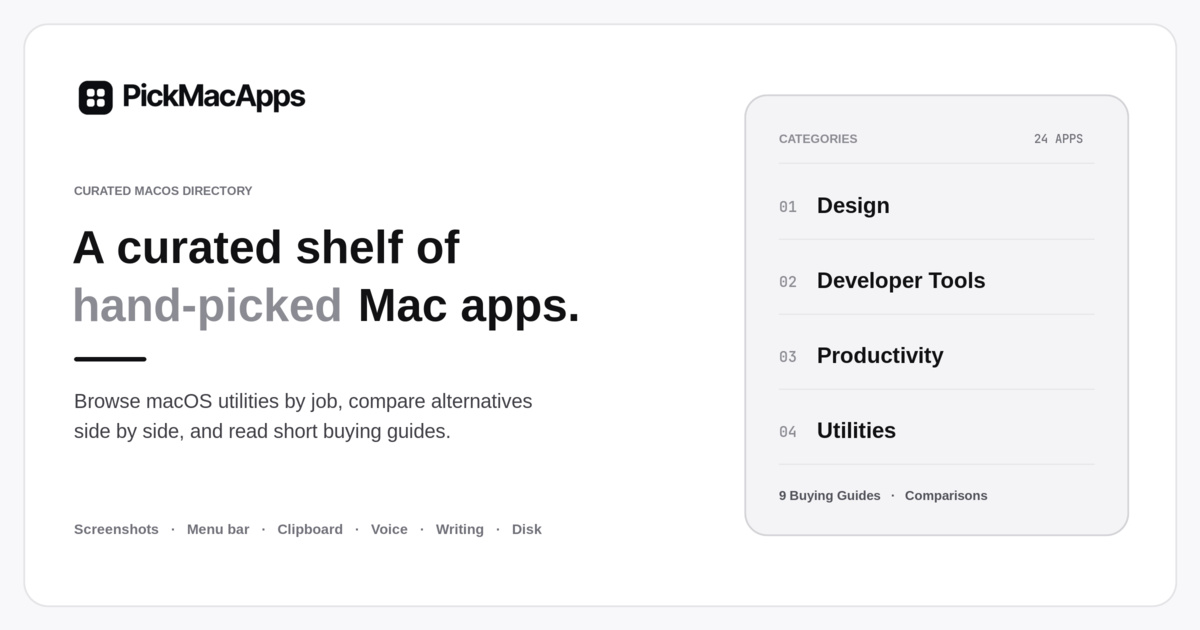
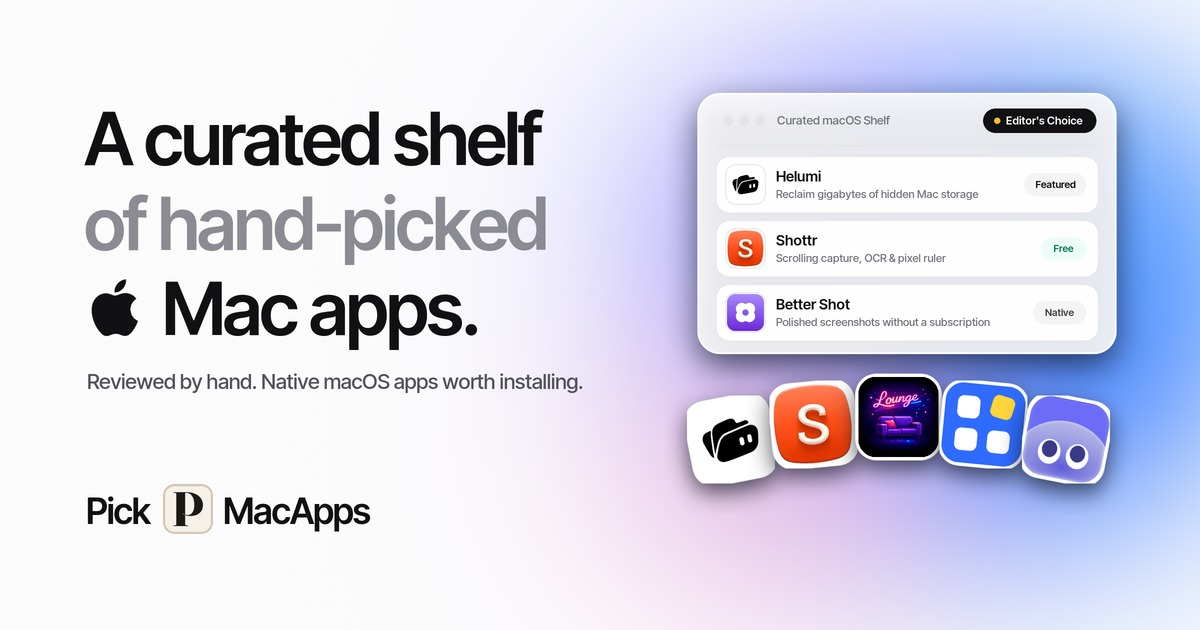
Redesign og.jpg share card to match latest UI and TryMacApps aesthetic

diff --git a/src/components/og-preview-modal.tsx b/src/components/og-preview-modal.tsx
@@ -180,6 +180,17 @@ export function OgPreviewModal({
           </button>
           <button
             type="button"
+            onClick={() => setTarget({ kind: "app", slug: "helumi" })}
+            className={`rounded-lg px-3 py-1.5 text-xs font-medium transition ${
+              target.kind === "app" && target.slug === "helumi"
+                ? "bg-ink text-canvas"
+                : "border border-line bg-canvas text-body hover:text-ink"
+            }`}
+          >
+            App: Helumi
+          </button>
+          <button
+            type="button"
             onClick={() => setTarget({ kind: "app", slug: "shottr" })}
             className={`rounded-lg px-3 py-1.5 text-xs font-medium transition ${
               target.kind === "app" && target.slug === "shottr"
@@ -199,17 +210,6 @@ export function OgPreviewModal({
             }`}
           >
             App: Anytype
-          </button>
-          <button
-            type="button"
-            onClick={() => setTarget({ kind: "app", slug: "ia-writer" })}
-            className={`rounded-lg px-3 py-1.5 text-xs font-medium transition ${
-              target.kind === "app" && target.slug === "ia-writer"
-                ? "bg-ink text-canvas"
-                : "border border-line bg-canvas text-body hover:text-ink"
-            }`}
-          >
-            App: iA Writer
           </button>
           <button
             type="button"
@@ -248,7 +248,7 @@ export function OgPreviewModal({
               <div className="overflow-hidden rounded-2xl border border-line bg-canvas shadow-xs">
                 <div className="aspect-[1200/630] w-full overflow-hidden border-b border-line bg-surface-2">
                   <img
-                    src={cardData.imageSrc}
+                    src={cardData.imageSrc === "/og.jpg" ? "/og.jpg?v=2" : cardData.imageSrc}
                     alt={cardData.title}
                     referrerPolicy="no-referrer"
                     className="h-full w-full object-cover"
@@ -269,7 +269,7 @@ export function OgPreviewModal({
                 <p className="mt-1 text-xs leading-relaxed text-body">{cardData.description}</p>
                 <div className="mt-3 aspect-[1200/630] w-full overflow-hidden rounded-lg border border-line bg-canvas">
                   <img
-                    src={cardData.imageSrc}
+                    src={cardData.imageSrc === "/og.jpg" ? "/og.jpg?v=2" : cardData.imageSrc}
                     alt={cardData.title}
                     referrerPolicy="no-referrer"
                     className="h-full w-full object-cover"
@@ -281,7 +281,7 @@ export function OgPreviewModal({
             {platform === "raw" ? (
               <div className="overflow-hidden rounded-xl border border-line bg-surface-2">
                 <img
-                  src={cardData.imageSrc}
+                  src={cardData.imageSrc === "/og.jpg" ? "/og.jpg?v=2" : cardData.imageSrc}
                   alt={cardData.title}
                   referrerPolicy="no-referrer"
                   className="aspect-[1200/630] w-full object-cover"

diff --git a/src/components/site-footer.tsx b/src/components/site-footer.tsx
@@ -9,14 +9,23 @@ const menu = [
   { to: "/privacy", label: "Privacy" },
 ] as const;
 
-const fan = ["-rotate-12 translate-y-1", "rotate-6 -translate-y-1.5", "-rotate-8 translate-y-2", "rotate-3 -translate-y-1"];
+const fan = [
+  "-rotate-12 translate-y-2",
+  "-rotate-6 translate-y-0.5",
+  "-rotate-3 -translate-y-1",
+  "rotate-2 -translate-y-1.5",
+  "rotate-5 -translate-y-0.5",
+  "rotate-9 translate-y-1",
+  "-rotate-6 translate-y-1.5",
+  "rotate-12 translate-y-2",
+];
 
 export function SiteFooter() {
   const { directory } = useRouteContext({ from: "__root__" });
   const list = directory?.apps ?? apps;
   const used = categories.filter((category) => list.some((app) => app.category === category.slug));
   const picks = list.filter((app) => app.editorChoice ?? editors.has(app.slug));
-  const icons = picks.slice(0, 8);
+  const icons = [...picks, ...list.filter((app) => !picks.includes(app))].slice(0, 8);
 
   return (
     <footer className="mt-16 px-5 pt-12 pb-10 md:px-10">
@@ -30,7 +39,7 @@ export function SiteFooter() {
                   to="/app/$slug"
                   params={{ slug: app.slug }}
                   aria-label={app.name}
-                  className={`${index === 0 ? "" : "-ml-3 md:-ml-4"} ${fan[index] ?? ""} transition-transform duration-300 hover:z-10 hover:translate-y-0 hover:rotate-0 hover:scale-110`}
+                  className={`${index === 0 ? "" : "-ml-3 md:-ml-4"} ${fan[index % fan.length] ?? ""} transition-transform duration-300 hover:z-10 hover:translate-y-0 hover:rotate-0 hover:scale-110`}
                 >
                   <img alt="" src={app.icon} className="h-11 w-11 rounded-xl bg-white object-cover shadow-lg ring-1 ring-black/5 md:h-14 md:w-14 md:rounded-2xl" />
                 </Link>

diff --git a/docs/seo/CHANGELOG.md b/docs/seo/CHANGELOG.md
@@ -2,7 +2,7 @@
 
 ## 2026-10-31 — Social share card and app OG metadata fixes
 
-Updated `/public/og.jpg` (1200×630) to match the current monochrome/silver `Inter Tight` brand system and replaced the outdated 5-category list (`Music & Audio` removed) with the 4 active catalog categories (`Design`, `Developer Tools`, `Productivity`, `Utilities`) and shelf jobs. Updated `src/routes/app/$slug.tsx` and `src/lib/seo.ts` so individual app pages use their `1200×630` cover screenshot (`app.demo`, when not an `.mp4` video) for `og:image` and `twitter:image`. Improved `fitDescription()` to strip trailing dangling articles/conjunctions (such as `"and a"` on `/app/shottr`) and expanded the default site description to 136 characters.
+Redesigned `/public/og.jpg` (1200×630, ~100 KB JPEG) to align with the latest PickMacApps UI (`Inter Tight` display headline `"A curated shelf of hand-picked  Mac apps."`, `Pick [P] MacApps` lockup, soft blue/indigo/violet/blush radial aura, frosted Editor’s Choice showcase card, and fanned macOS app squircles). Updated `src/routes/app/$slug.tsx` and `src/lib/seo.ts` so individual app pages use their `1200×630` cover screenshot (`app.demo`, when not an `.mp4` video) for `og:image` and `twitter:image`. Improved `fitDescription()` to strip trailing dangling articles/conjunctions (such as `"and a"` on `/app/shottr`) and expanded the default site description to 136 characters.
 
 ## 2026-10-18 — Crawl and honesty fixes
 
